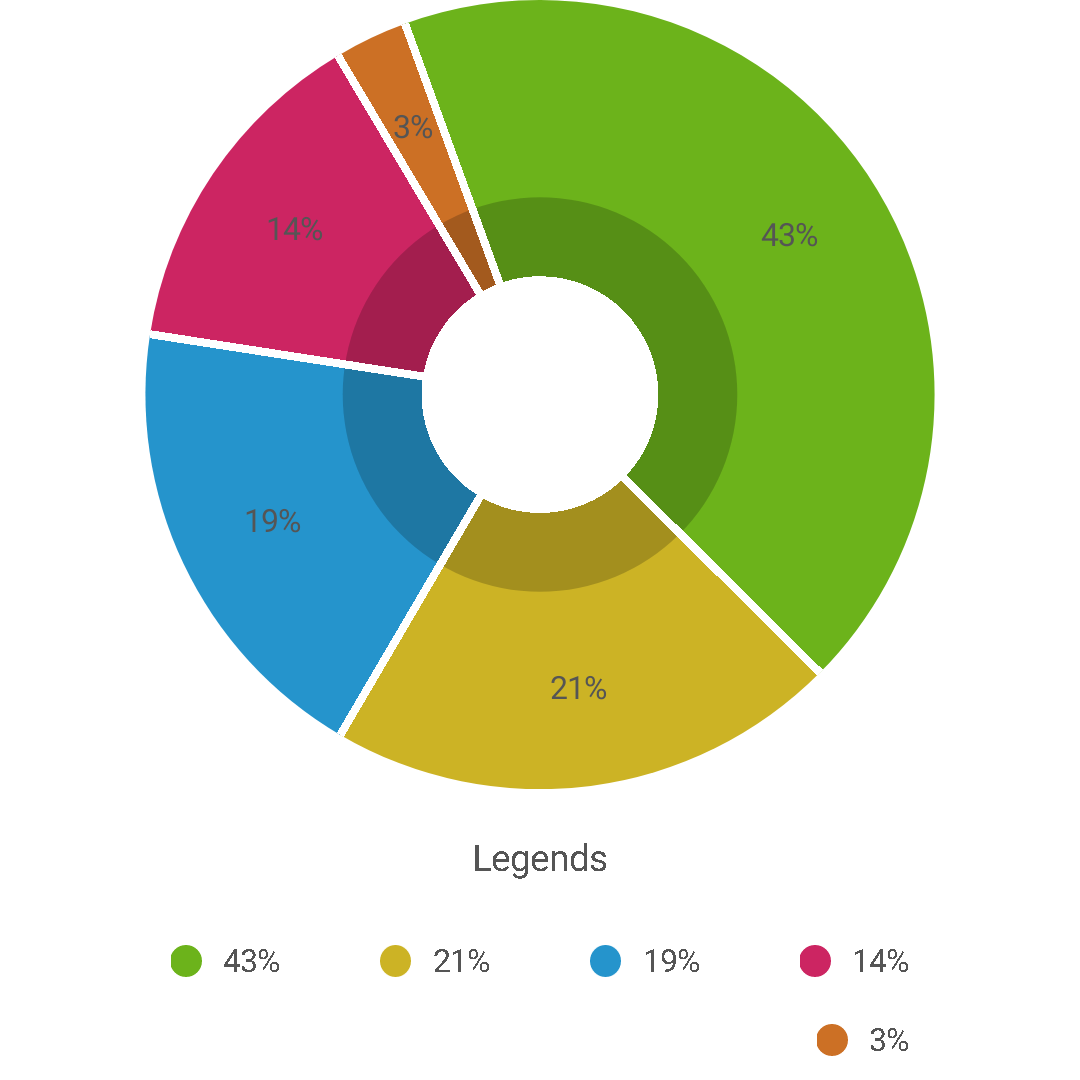
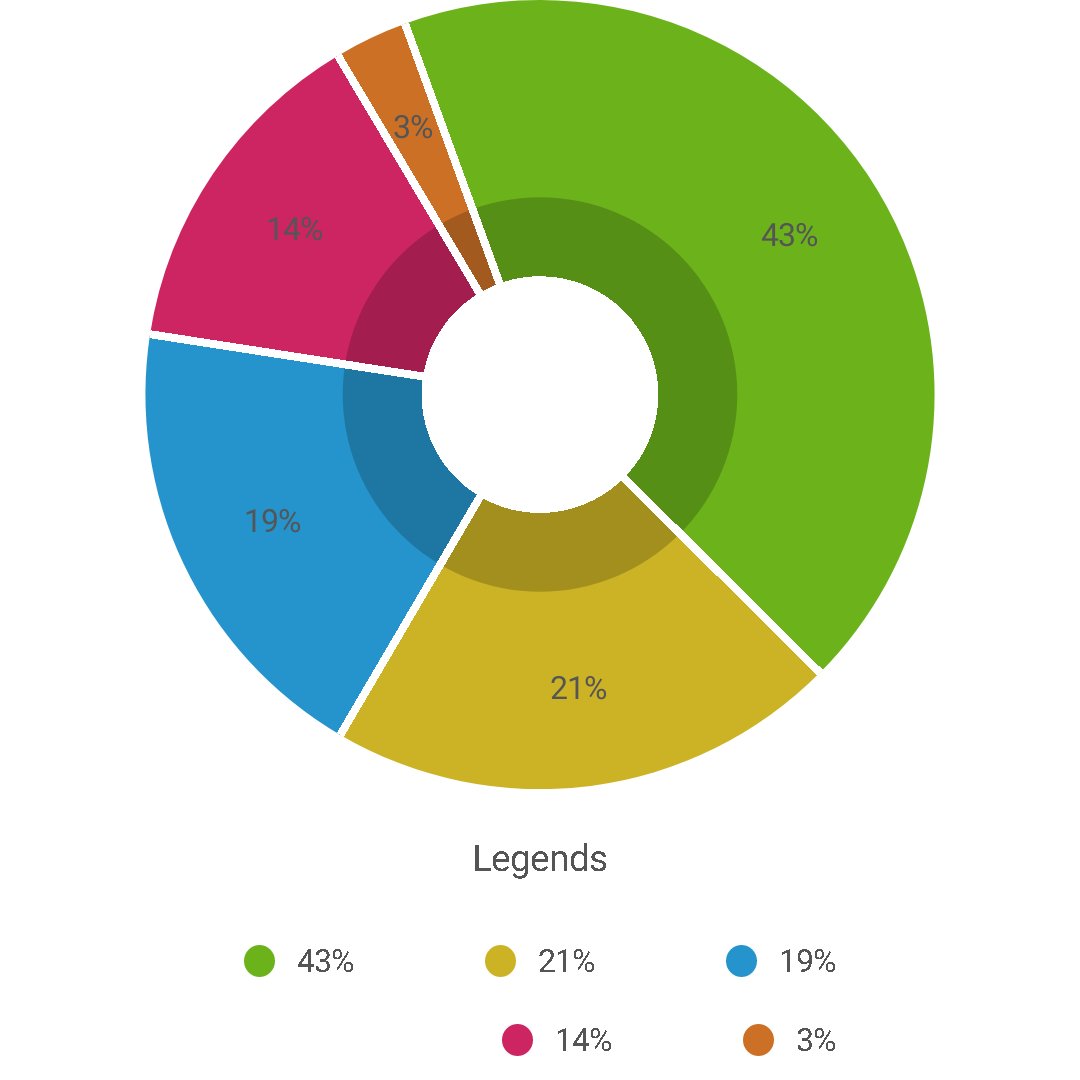
Reflect changes to `legendsMargin` property in chart

diff --git a/piechart/src/main/kotlin/ir/mahozad/android/PieChart.kt b/piechart/src/main/kotlin/ir/mahozad/android/PieChart.kt
@@ -61,7 +61,7 @@ const val DEFAULT_LEGEND_BOX_BORDER_STATUS = DISABLED
 const val DEFAULT_LEGENDS_PERCENTAGE_STATUS = DISABLED
 @Dimension(unit = DP) const val DEFAULT_LEGENDS_PERCENTAGE_MARGIN = 8f
 val DEFAULT_LEGENDS_PERCENTAGE_SIZE = DEFAULT_LEGENDS_SIZE
-@Dimension(unit = DP) const val DEFAULT_LEGENDS_MARGIN = 4f
+val DEFAULT_LEGENDS_MARGIN = 4.px
 val DEFAULT_LABEL_ICONS_HEIGHT = DEFAULT_LABELS_SIZE
 val DEFAULT_LEGEND_ICONS_HEIGHT = DEFAULT_LEGENDS_SIZE
 @Dimension(unit = DP) const val DEFAULT_LABEL_ICONS_MARGIN = 8f
@@ -357,12 +357,10 @@ class PieChart @JvmOverloads constructor(
         onSizeChanged(width, height, width, height)
     }
 
-    var legendsMargin = dpToPx(DEFAULT_LEGENDS_MARGIN)
-        set(margin /* px */) {
-            field = margin
-            invalidate()
-            requestLayout()
-        }
+    var legendsMargin by Property(DEFAULT_LEGENDS_MARGIN) {
+        onSizeChanged(width, height, width, height)
+    }
+
     var legendsColor = DEFAULT_LEGENDS_COLOR
         set(color) {
             field = color
@@ -699,7 +697,7 @@ class PieChart @JvmOverloads constructor(
             legendsPercentageColor = getColor(R.styleable.PieChart_legendsPercentageColor, DEFAULT_LEGENDS_PERCENTAGE_COLOR)
             centerLabelIconTint = getIconTint(this, R.styleable.PieChart_centerLabelIconTint)
             legendIconsTintArray = getColorArray(this, R.styleable.PieChart_legendIconsTint)
-            legendsMargin = getDimension(R.styleable.PieChart_legendsMargin, dpToPx(DEFAULT_LEGENDS_MARGIN))
+            legendsMargin = PX(getDimension(R.styleable.PieChart_legendsMargin, DEFAULT_LEGENDS_MARGIN.px))
             legendsColor = getColor(R.styleable.PieChart_legendsColor, DEFAULT_LEGENDS_COLOR)
             legendBoxBackgroundColor = getColor(R.styleable.PieChart_legendBoxBackgroundColor, DEFAULT_LEGEND_BOX_BACKGROUND_COLOR)
             legendBoxMargin = getDimension(R.styleable.PieChart_legendBoxMargin, dpToPx(DEFAULT_LEGEND_BOX_MARGIN))
@@ -762,7 +760,7 @@ class PieChart @JvmOverloads constructor(
             else -> (height - paddingTop - paddingBottom).toFloat()
         }
 
-        val legendBox = LegendBuilder().createLegendBox(context, maxAvailableWidthForLegendBox, maxAvailableHeightForLegendBox, slices,legendIconsTintArray, legendsTitle, legendsTitleSize, legendsTitleColor, legendTitleMargin, legendsTitleAlignment, legendsIcon, legendIconsHeight.px, legendIconsAlpha, legendsSize.px, legendsColor, legendIconsMargin, legendsPercentageMargin, isLegendsPercentageEnabled, legendsPercentageSize.px, legendsPercentageColor, legendsMargin, legendArrangement, legendsAlignment, legendBoxBackgroundColor, legendBoxPadding, legendBoxBorder, legendBoxBorderColor, legendBoxBorderAlpha, legendBoxBorderCornerRadius, legendBoxBorderType, legendBoxBorderDashArray, legendBoxMargin, legendPosition, legendLinesMargin, legendsWrapping, isLegendBoxBorderEnabled)
+        val legendBox = LegendBuilder().createLegendBox(context, maxAvailableWidthForLegendBox, maxAvailableHeightForLegendBox, slices,legendIconsTintArray, legendsTitle, legendsTitleSize, legendsTitleColor, legendTitleMargin, legendsTitleAlignment, legendsIcon, legendIconsHeight.px, legendIconsAlpha, legendsSize.px, legendsColor, legendIconsMargin, legendsPercentageMargin, isLegendsPercentageEnabled, legendsPercentageSize.px, legendsPercentageColor, legendsMargin.px, legendArrangement, legendsAlignment, legendBoxBackgroundColor, legendBoxPadding, legendBoxBorder, legendBoxBorderColor, legendBoxBorderAlpha, legendBoxBorderCornerRadius, legendBoxBorderType, legendBoxBorderDashArray, legendBoxMargin, legendPosition, legendLinesMargin, legendsWrapping, isLegendBoxBorderEnabled)
         val (pieWidth, pieHeight) = calculatePieDimensions(width, height, Paddings(paddingTop, paddingBottom, paddingStart, paddingEnd), isLegendEnabled, legendBoxMargin, legendPosition, legendBox.width, legendBox.height)
         pie = Pie(context, pieWidth, pieHeight, null, null, startAngle, slices, outsideLabelsMargin, labelType, labelsSize.px, labelsColor, labelsFont, labelIconsHeight.px, labelIconsMargin, labelIconsPlacement, labelIconsTint, labelsOffset, shouldCenterPie, drawDirection, overlayRatio, overlayAlpha, gradientType, holeRatio, slicesPointer, gap.px, gapPosition)
         val chartDirection = determineChartDirection(legendPosition)

diff --git a/piechart/src/androidTest/kotlin/ir/mahozad/android/ScreenshotTest.kt b/piechart/src/androidTest/kotlin/ir/mahozad/android/ScreenshotTest.kt
@@ -191,7 +191,7 @@ class ScreenshotTest {
 
     @Test fun changeLegendsAlignment() {
         compareScreenshots("screenshot-18") {
-            legendsMargin = 100f // So they constitute multiple lines
+            legendsMargin = 50.dp // So they constitute multiple lines
             legendsAlignment = Alignment.END
         }
     }
@@ -202,7 +202,7 @@ class ScreenshotTest {
 
     @Test fun changeLegendsWrapping() {
         compareScreenshots("screenshot-20") {
-            legendsMargin = 150f // So they constitute multiple lines
+            legendsMargin = 50.dp // So they constitute multiple lines
             legendsWrapping = Wrapping.CLIP
         }
     }
@@ -217,6 +217,10 @@ class ScreenshotTest {
 
     @Test fun changeLegendArrangement() {
         compareScreenshots("screenshot-23") { legendArrangement = PieChart.LegendArrangement.VERTICAL }
+    }
+
+    @Test fun changeLegendsMargin() {
+        compareScreenshots("screenshot-24") { legendsMargin = 53.dp }
     }
 
     /**
